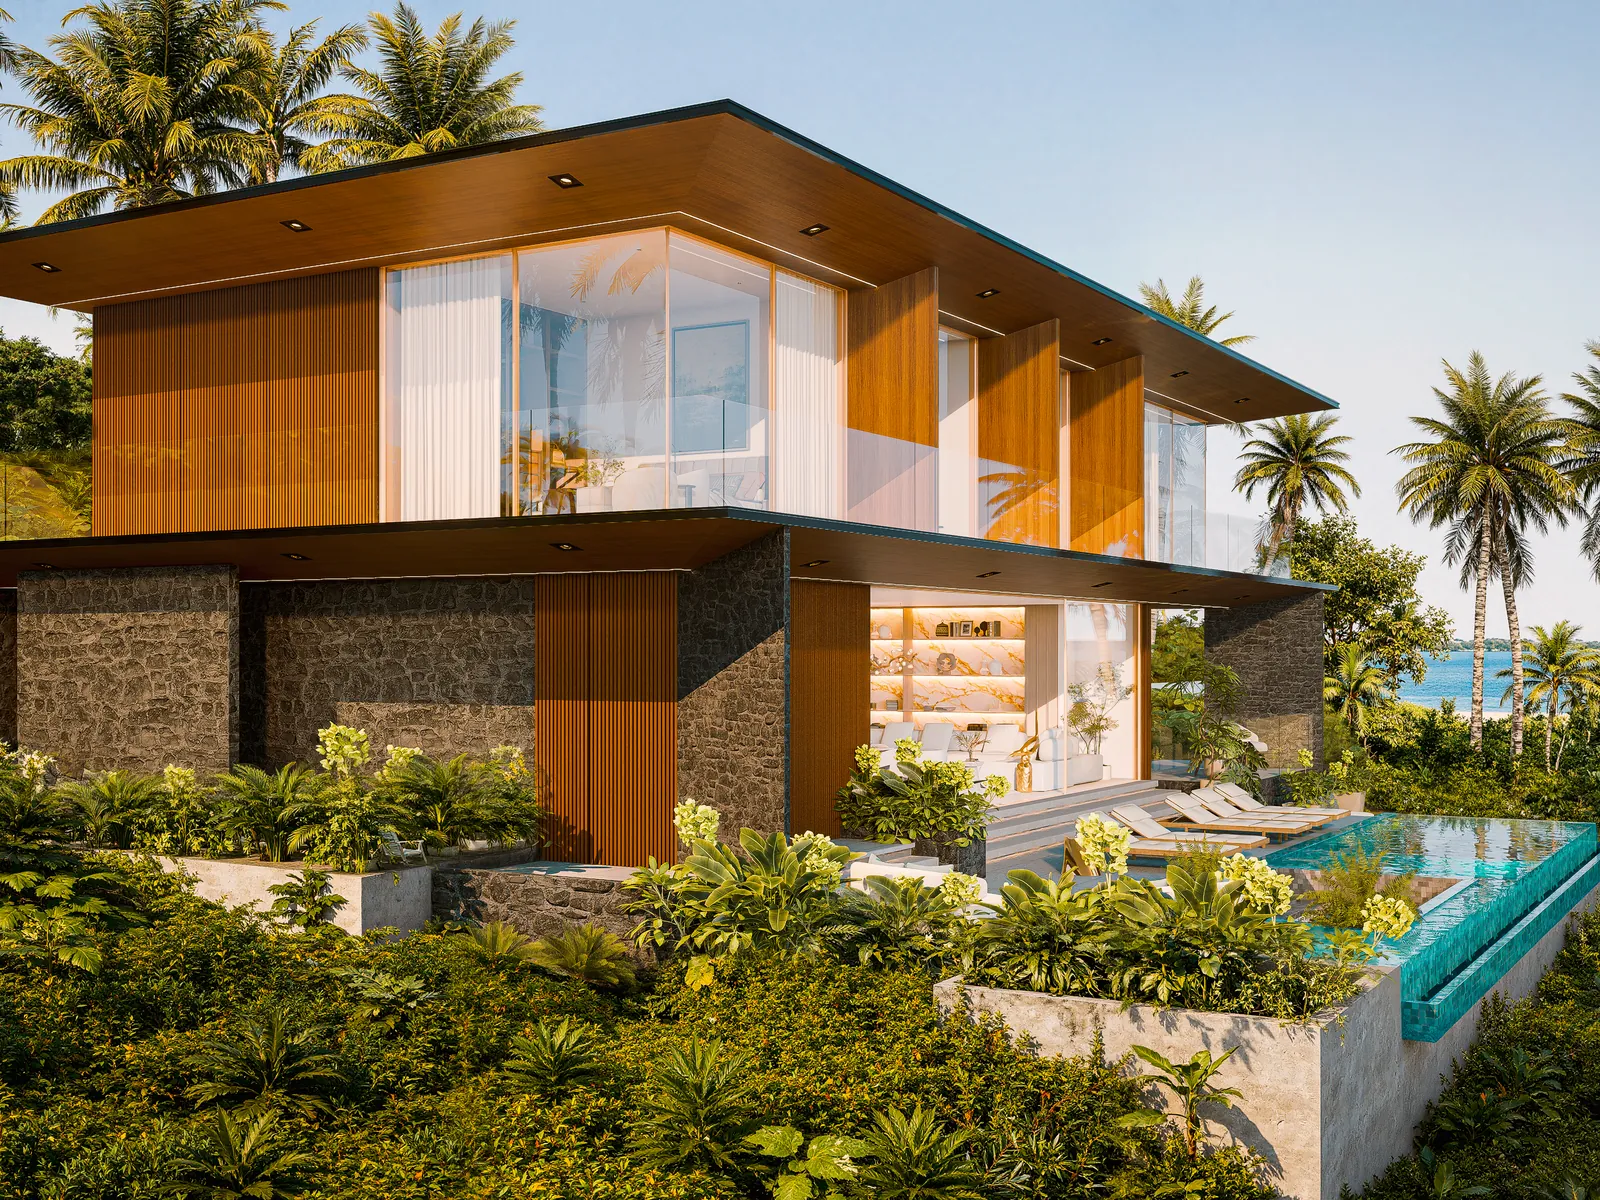
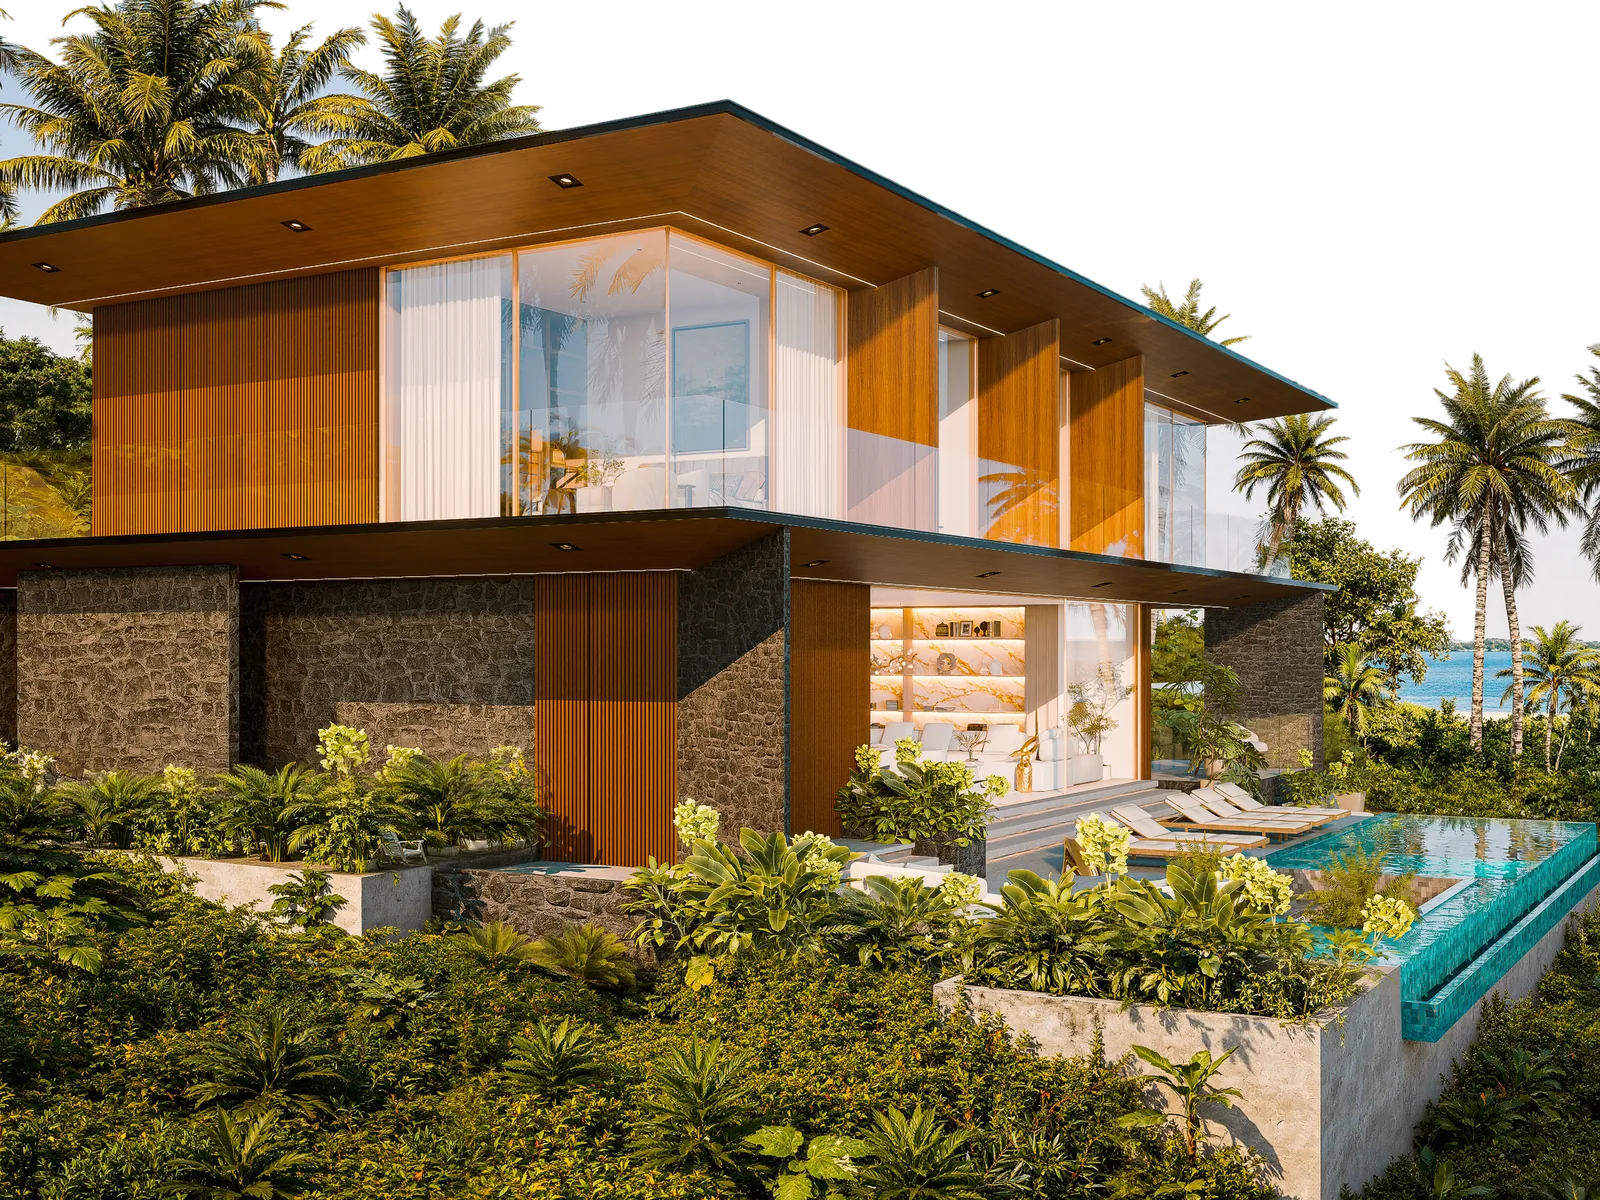
feat(home): el render del bloque de cita sin cielo, fundido con la sección
ERA servía ahí un WebP con alfa (img_cam_05_alpha): el edificio se posa
sobre el fondo de la sección y no hay corte entre color e imagen. Se
hace lo mismo con Villa Cosón R13: scripts/quote-sin-cielo.py aísla el
cielo por color (claro, poco saturado, azulado y conectado con el borde
superior; el mar turquesa y los cristales quedan fuera), lo encoge 1px
para comerse el halo de las palmeras y exporta con alfa + variantes.

Changed region(s): [[0.1562, 0.0, 1.0, 0.5242], [0.0, 0.0, 0.0938, 0.0617]]

diff --git a/scripts/quote-sin-cielo.py b/scripts/quote-sin-cielo.py
@@ -1,0 +1,64 @@
+# -*- coding: utf-8 -*-
+"""
+Render de la sección de cita (PillarsMedia) sin cielo, como el de ERA.
+
+ERA servía ahí `img_cam_05_alpha.webp`: el render con el cielo transparente,
+de modo que el edificio se posa sobre el crema de la sección y no hay corte
+entre fondo e imagen. Aquí se hace lo mismo con el render de Villa Cosón:
+
+  1. Recorte 4:3 centrado del PNG del estudio, a 2350 px.
+  2. Cielo = píxeles claros, poco saturados y azulados (o casi blancos)
+     CONECTADOS con el borde superior. El mar (turquesa, saturado), los
+     cristales (encerrados por la carpintería) y las cortinas no lo tocan.
+  3. El cielo se encoge 1 px para comerse el halo azul de las palmeras y
+     el alfa se suaviza 1,2 px.
+  4. WebP con alfa + variantes -p-500/800/1080/1600/2000.
+
+    python scripts/quote-sin-cielo.py
+"""
+import os
+
+import numpy as np
+from PIL import Image
+from scipy import ndimage
+
+Image.MAX_IMAGE_PIXELS = None
+
+RAIZ = os.path.join(os.path.dirname(os.path.abspath(__file__)), '..')
+SRC = os.path.join(RAIZ, 'bahia-mar-personalizacion',
+                   '00. BAHÍA MAR_RENDERS_AGOSTO-20260911T175532Z-1-002', '00. BAHÍA MAR_RENDERS_AGOSTO',
+                   '00. RENDERS VILLA A - BAHÍA MAR', '01. RENDERS EXTERIORES', 'R13.png')
+DST = os.path.join(RAIZ, 'public', 'images', 'bahiamar-quote-1')
+ANCHO = 2350
+
+
+def main():
+    im = Image.open(SRC).convert('RGB')
+    w, h = im.size
+    cw = round(h * 4 / 3)
+    im = im.crop(((w - cw) // 2, 0, (w - cw) // 2 + cw, h)).resize((ANCHO, round(ANCHO * 3 / 4)), Image.LANCZOS)
+    a = np.asarray(im)
+    hsv = np.asarray(im.convert('HSV')).astype(np.float32) / 255.0   # PIL: sin skimage/OpenBLAS
+    hue, sat, val = hsv[..., 0], hsv[..., 1], hsv[..., 2]
+    azul = (hue > 0.5) & (hue < 0.7) & (sat < 0.5) & (val > 0.55)
+    bruma = (sat < 0.18) & (val > 0.82)
+    cand = azul | bruma
+    etiquetas, n = ndimage.label(cand)
+    arriba = np.unique(etiquetas[0, :])
+    cielo = np.isin(etiquetas, arriba[arriba != 0])
+    # sólo cuenta como cielo lo que está por encima del horizonte visible:
+    # nada de lo que toque el borde inferior
+    abajo = np.unique(etiquetas[-1, :])
+    cielo &= ~np.isin(etiquetas, abajo[abajo != 0])
+    cielo = ndimage.binary_dilation(cielo, iterations=1)   # come el halo azul de los bordes
+    alfa = ndimage.gaussian_filter(np.where(cielo, 0.0, 255.0), 1.2)
+    rgba = np.dstack([a, np.clip(alfa, 0, 255).astype(np.uint8)])
+    out = Image.fromarray(rgba, 'RGBA')
+    out.save(DST + '.webp', 'WEBP', quality=82, method=6)
+    for wv in (500, 800, 1080, 1600, 2000):
+        out.resize((wv, round(out.height * wv / out.width)), Image.LANCZOS).save('%s-p-%d.webp' % (DST, wv), 'WEBP', quality=82, method=6)
+    print('%s.webp %dx%d, cielo %.0f%% de la imagen' % (os.path.basename(DST), out.width, out.height, cielo.mean() * 100))
+
+
+if __name__ == '__main__':
+    main()

diff --git a/bahia-mar-personalizacion/INVENTARIO-IMAGENES.md b/bahia-mar-personalizacion/INVENTARIO-IMAGENES.md
@@ -156,7 +156,7 @@ Total: 105 elementos.
 | `/images/bahiamar-community-1.webp` | 00. AMENIDADES/PISCINA/PISCINA 01.png | components/home/Pillars.tsx — pillar 3 «A boutique resort» (slide image, community lagoon pool; crop to the original slot aspect 1.29:1 + srcset -p-500/800/1080/1600/2000) |
 | `/images/bahiamar-eco-1.webp` | 00. BAHÍA MAR_RENDERS_AGOSTO/00. RENDERS VILLA D - BAHÍA MAR/01. RENDERS EXTERIORES/R5.png | components/home/Pillars.tsx — pillar 2 «True eco-luxury» (slide image, Villa Ámbar exterior; 4:5 portrait crop like the original slot + srcset -p-500/800/1080/1600/2000) |
 | `/images/bahiamar-location-1.webp` | 00. AMENIDADES/Z. FOGATAS 02.jpeg | SIN USO desde el 12-09-2026: los pilares pasaron de tres razones a una por villa (bahiamar-pillar-<villa>). Fichero conservado en public/ por si se recupera. |
-| `/images/bahiamar-quote-1.webp` | 00. BAHÍA MAR_RENDERS_AGOSTO-20260911T175532Z-1-002/00. BAHÍA MAR_RENDERS_AGOSTO/00. RENDERS VILLA A - BAHÍA MAR/01. RENDERS EXTERIORES/R13.png | components/home/PillarsMedia.tsx — background of the quote block (Villa Cosón exterior; 4:3 centre crop + srcset -p-500/800/1080/1600/2000) |
+| `/images/bahiamar-quote-1.webp` | 00. BAHÍA MAR_RENDERS_AGOSTO-20260911T175532Z-1-002/00. BAHÍA MAR_RENDERS_AGOSTO/00. RENDERS VILLA A - BAHÍA MAR/01. RENDERS EXTERIORES/R13.png | Home › bloque de cita (PillarsMedia) › fondo: Villa Cosón R13, recorte 4:3, CON EL CIELO TRANSPARENTE (scripts/quote-sin-cielo.py) para que el edificio se pose sobre el fondo de la sección sin corte, como el img_cam_05_alpha de ERA. Variantes -p-500/800/1080/1600/2000. |
 
 ## Identidad y vegetación decorativa
 
